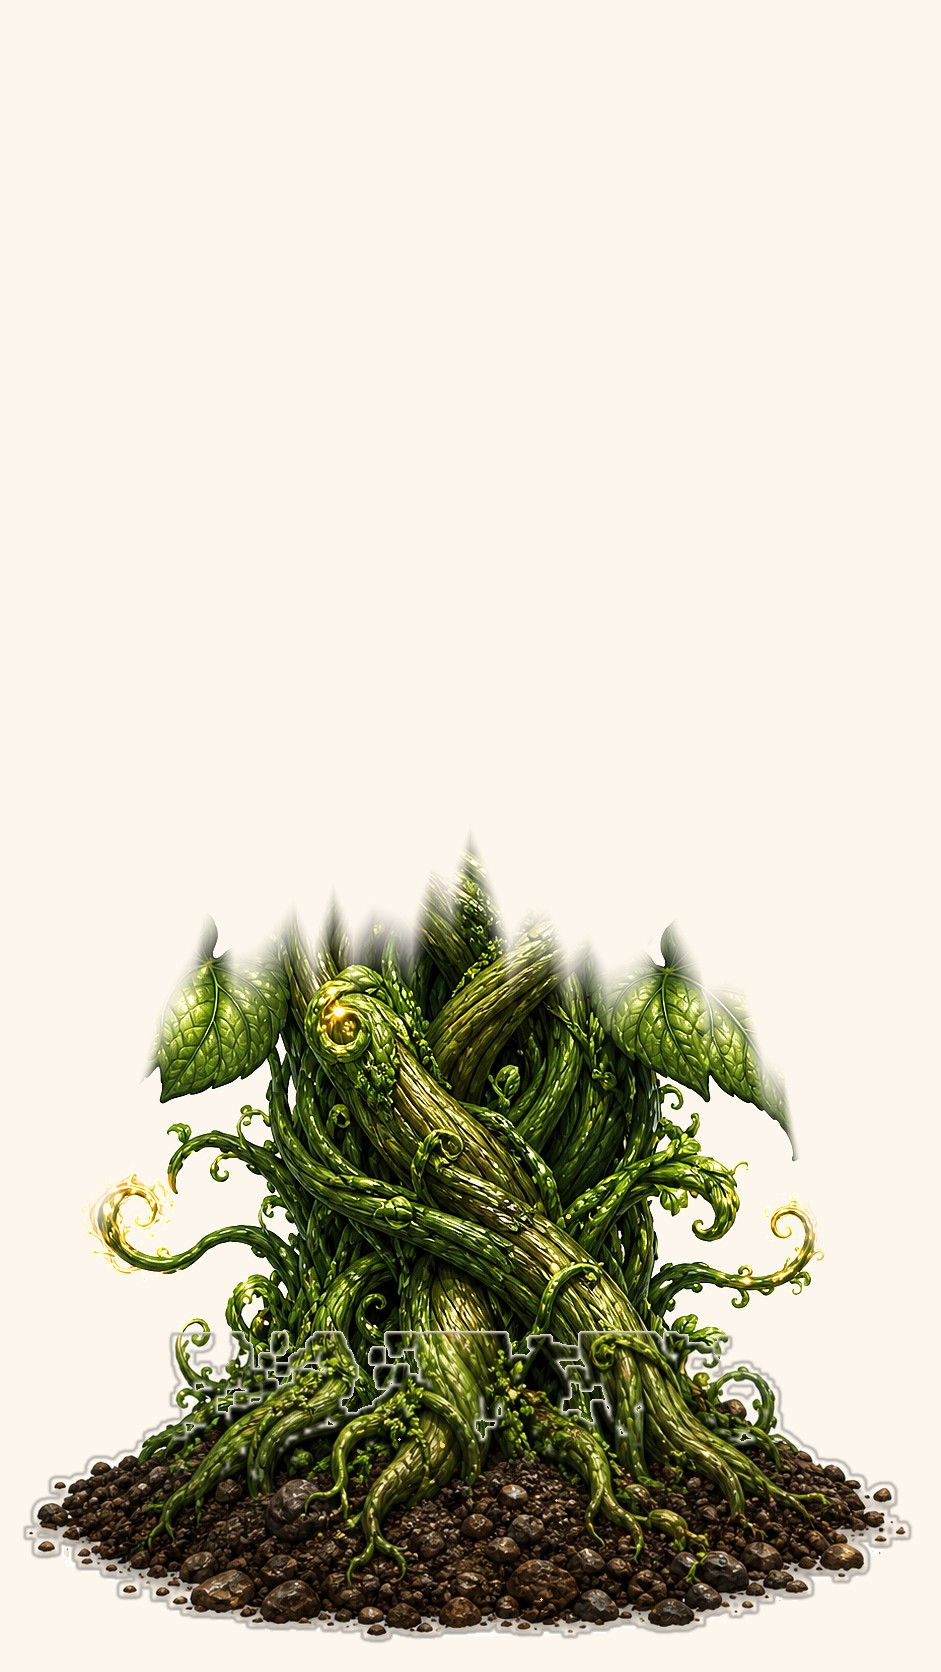
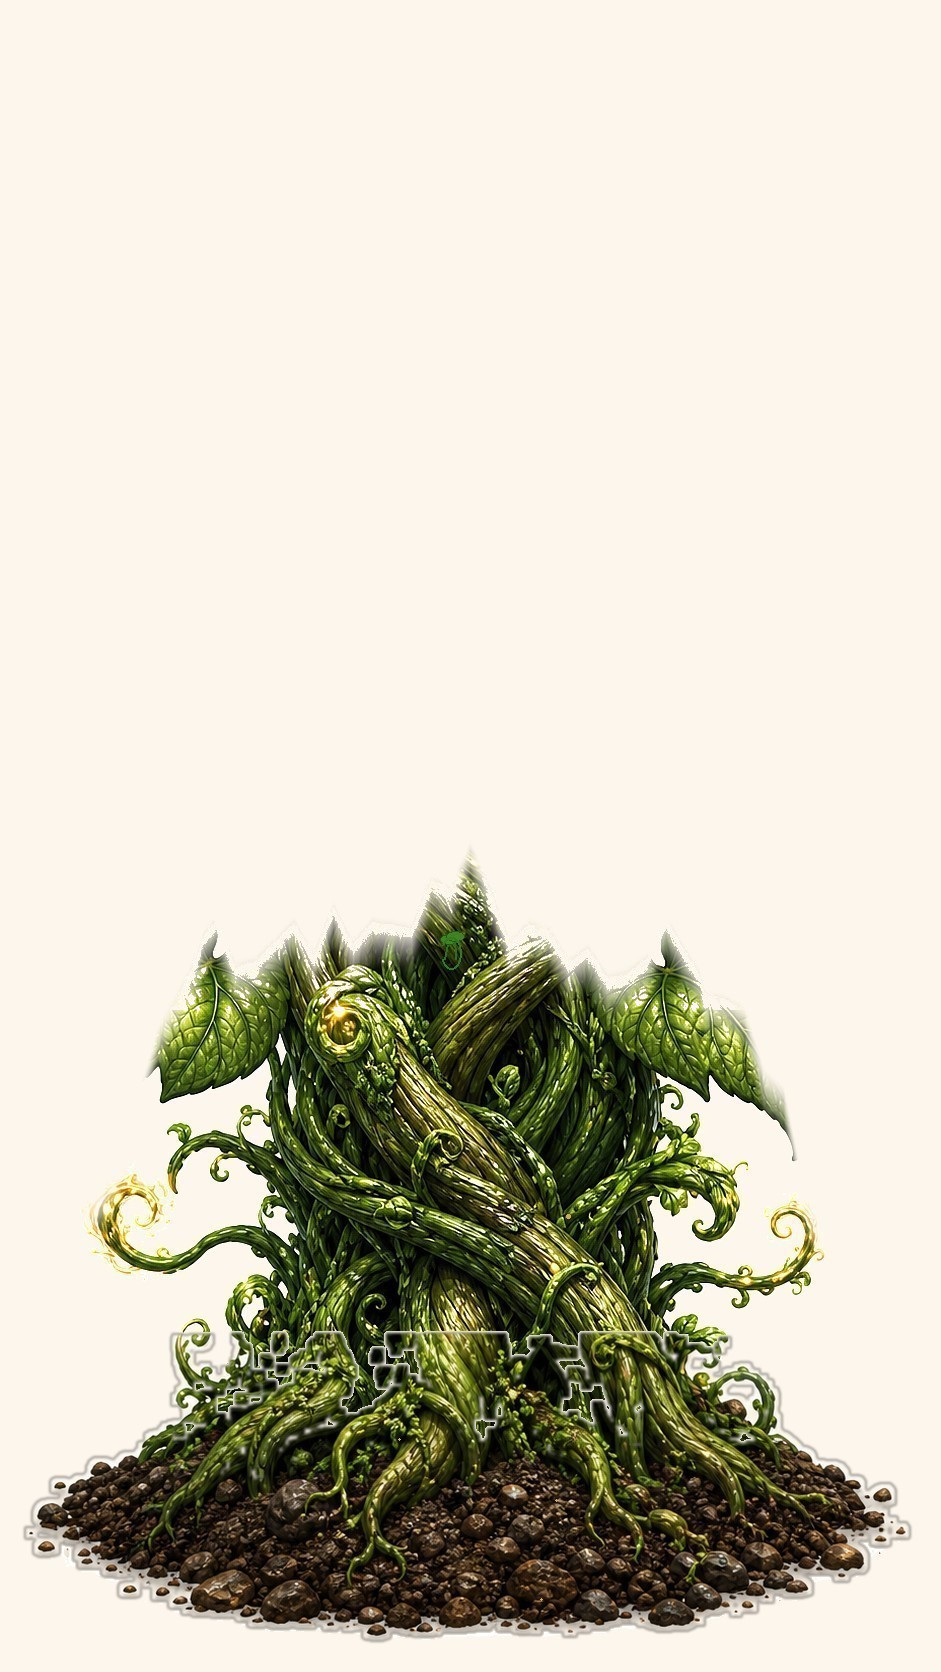
修复魔树树冠拖影并补充验收判据

diff --git a/scripts/validate_magic_tree_frames.py b/scripts/validate_magic_tree_frames.py
@@ -7,10 +7,12 @@ from collections import deque
 from pathlib import Path
 
 import numpy as np
-from PIL import Image, ImageStat
+from PIL import Image
 
 
 BG = np.array([253, 246, 236], dtype=np.float32)
+LUMA_WEIGHTS = np.array([0.2126, 0.7152, 0.0722], dtype=np.float32)
+BG_LUMA = float(np.dot(BG, LUMA_WEIGHTS))
 
 
 def load_frames(frame_dir: Path) -> list[Path]:
@@ -20,6 +22,10 @@ def load_frames(frame_dir: Path) -> list[Path]:
     if len(frames) != 28:
         raise SystemExit(f"需要 28 帧，当前 {len(frames)} 帧")
     return frames
+
+
+def luminance(arr: np.ndarray) -> np.ndarray:
+    return arr.astype(np.float32) @ LUMA_WEIGHTS
 
 
 def foreground_mask(arr: np.ndarray) -> np.ndarray:
@@ -76,7 +82,7 @@ def scaled_final_diff(
 
 
 def connected_component_diameters(mask: np.ndarray) -> list[float]:
-    # 粗略叶片代理：只统计中等面积绿色连通块，避免把主藤整根算进去。
+    # 粗略叶片代理：只统计较大的绿色连通块，避免把藤须碎片算进去。
     h, w = mask.shape
     seen = np.zeros_like(mask, dtype=bool)
     diameters: list[float] = []
@@ -107,6 +113,21 @@ def connected_component_diameters(mask: np.ndarray) -> list[float]:
     return diameters
 
 
+def crown_smear_ratio(arr: np.ndarray, plant_top: float) -> float:
+    h = arr.shape[0]
+    top = min(h - 1, max(0, int(round(plant_top * h))))
+    bottom = min(h, top + 120)
+    if bottom <= top:
+        return 0.0
+    band = arr[top:bottom]
+    content = foreground_mask(band)
+    if not np.any(content):
+        return 0.0
+    bg_distance = np.abs(band.astype(np.float32) - BG).sum(axis=2)
+    bright_content = content & (luminance(band) >= BG_LUMA - 90) & (bg_distance <= 95)
+    return float(np.count_nonzero(bright_content) / np.count_nonzero(content))
+
+
 def main() -> None:
     parser = argparse.ArgumentParser()
     parser.add_argument("frame_dir", type=Path)
@@ -116,6 +137,8 @@ def main() -> None:
     parser.add_argument("--min-scaled-final-diff", type=float, default=15.0)
     parser.add_argument("--max-width-height-growth-ratio", type=float, default=0.5)
     parser.add_argument("--max-leaf-diameter-drift", type=float, default=0.2)
+    parser.add_argument("--max-crown-smear-ratio", type=float, default=0.03)
+    parser.add_argument("--max-brightness-over-bg", type=float, default=10.0)
     args = parser.parse_args()
 
     paths = load_frames(args.frame_dir)
@@ -135,6 +158,7 @@ def main() -> None:
     leaf_medians: list[float | None] = []
     leaf_counts: list[int] = []
     bg_means: list[list[float]] = []
+    brightness_over_bg: list[float] = []
 
     for arr in arrays:
         fg = foreground_mask(arr)
@@ -166,6 +190,12 @@ def main() -> None:
             axis=0,
         )
         bg_means.append([round(float(v), 2) for v in bg_sample.mean(axis=0)])
+        brightness_over_bg.append(float(np.max(luminance(arr)) - BG_LUMA))
+
+    crown_smears = [
+        crown_smear_ratio(arr, plant_top)
+        for arr, plant_top in zip(arrays, plant_tops, strict=True)
+    ]
 
     top_regressions = [
         i + 1
@@ -209,7 +239,11 @@ def main() -> None:
         "soil_bottom_stable": soil_bottom_drift <= args.max_soil_drift,
         "plant_top_monotonic": not top_regressions,
         "background_stable": max(bg_range) <= 2.0,
-        "format_and_size": len(sizes) == 1 and sizes[0] == (941, 1672) and paths[0].suffix.lower() == ".jpg",
+        "crown_smear": max(crown_smears) <= args.max_crown_smear_ratio,
+        "brightness_not_over_bg": max(brightness_over_bg) <= args.max_brightness_over_bg,
+        "format_and_size": len(sizes) == 1
+        and sizes[0] == (941, 1672)
+        and paths[0].suffix.lower() == ".jpg",
     }
 
     result = {
@@ -235,6 +269,10 @@ def main() -> None:
         "soil_bottom_max": round(max(soil_bottoms), 4),
         "soil_bottom_drift": round(soil_bottom_drift, 4),
         "background_mean_range": [round(float(v), 3) for v in bg_range],
+        "crown_smear_ratio_max": round(max(crown_smears), 4),
+        "crown_smear_ratio_values": [round(v, 4) for v in crown_smears],
+        "brightness_over_bg_max": round(max(brightness_over_bg), 3),
+        "brightness_over_bg_values": [round(v, 3) for v in brightness_over_bg],
         "checks": pass_checks,
         "pass": all(pass_checks.values()),
     }

diff --git a/picture/魔树动画素材/素材说明.md b/picture/魔树动画素材/素材说明.md
@@ -1,6 +1,6 @@
 # 魔树动画素材说明
 
-本目录是魔树生长动画的高清固定土堆显现版 JPEG q90 素材，用于替换上一批低清连贯帧、28 次独立生成的 PNG、会产生横向切口的土树分层版本，以及只有等比缩放的 zoom 版本。
+本目录是魔树生长动画的高清固定土堆显现版 JPEG q90 素材，用于替换低清连贯帧、逐帧独立 PNG、土树分层横切版、整体 zoom 版，以及树冠带浅色拖影的版本。
 
 ## 文件
 
@@ -15,21 +15,35 @@
 
 - 单帧尺寸：941x1672
 - 格式：JPEG q90
-- 总体积：约 14.1MB
+- 总体积：约 14.0MB
 - 背景：接近 `#FDF6EC`
 - 命名：`magic_tree_f01.jpg` 到 `magic_tree_f28.jpg`
 
 ## 本版修正
 
-上一批高清 PNG 是逐帧独立生成，单帧更清晰，但不是同一株植物连续生长，导致换株、土堆漂移、背景漂移和体积过大。上一版高清单锚点素材把土堆和植株拆成两层，分层边界造成明显横向切口；整体单层版又变成了明显 zoom。本版使用用户认可的高清终帧作为唯一锚点，固定土堆，只让原尺寸植株通过柔和不规则生长边界向上显现，并统一输出为 JPEG q90：
+本版使用用户认可的高清终帧作为唯一锚点，固定土堆，只让原尺寸植株通过柔和不规则生长边界向上显现，并清理树冠浅色拖影：
 
-- 废弃 50MB PNG 独立帧
 - 保留同一株魔树的视觉身份
 - 土堆宽度和底边固定
 - 植株保持原尺寸，不做整体 zoom
 - 生长方向以向上显现为主，横向展开受限
-- 不再使用切片平铺、镜像、拉伸树干等路线
-- 统一生成预览图、GIF 和验收报告，`pass: false` 时脚本直接失败
+- 清除树冠接近背景色的浅色残影
+- 限制全图亮度，不出现比背景更亮的光晕
+- 不再使用切片平铺、镜像、纵向拉伸树干等路线
+- `validation_report.json` 为 `pass: true` 时才交付
+
+## 当前验收
+
+当前 `validation_report.json` 为 `pass: true`。关键数据：
+
+- 相邻帧平均差最大：4.649
+- 末帧缩放比对最低：54.579
+- 宽高增长比：0.199
+- 叶片直径漂移：6.3%
+- 土堆宽度漂移：0
+- 土堆底边漂移：0
+- 树冠拖影率最大：2.93%
+- 最亮像素亮度超背景：8.234
 
 ## 接入建议
 
@@ -41,6 +55,4 @@
 
 ## 注意
 
-这版优先解决“高清质感、同株视觉身份、无拼接、无横向切口、不是 zoom、土堆固定”。`validation_report.json` 当前为 `pass: true`。
-
-如果之后继续追求更真实的“新叶逐片长出、藤条逐步变粗”，必须使用“一张大图画完全部帧再拆”或“img2img 链式低重绘”方式生成，不能再逐帧独立生成。
+这版优先解决“高清质感、同株视觉身份、无拼接、无横向切口、不是 zoom、土堆固定、树冠无拖影”。如果之后继续追求更真实的“新叶逐片长出、藤条逐步变粗”，必须使用“一张大图画完全部帧再拆”或“img2img 链式低重绘”方式生成，不能再逐帧独立生成。

diff --git a/docs/CODE_MAP.md b/docs/CODE_MAP.md
@@ -1,7 +1,7 @@
 # 代码地图（CODE MAP）
 
 > ⚠ 本文件由 `scripts/update_code_map.sh` 自动生成，请勿手工编辑。
-> 生成时间：2026-07-30 15:31:33　对应提交：415c604 之后的工作区状态
+> 生成时间：2026-07-30 15:59:56　对应提交：dfa1a44 之后的工作区状态
 
 ## 一、索引状态
 
@@ -13,20 +13,20 @@ Project: C:\Users\yunhao.zhou1\Desktop\Easy Create
 
 Index Statistics:
   Files:     110
-  Nodes:     4,132
-  Edges:     19,256
-  DB Size:   21.07 MB
+  Nodes:     4,136
+  Edges:     19,268
+  DB Size:   21.08 MB
   Backend:   node:sqlite - built-in (full WAL)
   Journal:   wal
 
 Nodes by Kind:
   method          1,567
-  function        1,393
+  function        1,395
   class           467
   import          349
   constant        210
   file            102
-  variable        27
+  variable        29
   type_alias      12
   enum_member     2
   namespace       2
@@ -198,7 +198,7 @@ Project Structure (110 files):
 |   |-- e2e_probe.dart (dart, 12 symbols)
 |   |-- serve_web.dart (dart, 4 symbols)
 |   |-- square_standins.py (python, 11 symbols)
-|   `-- validate_magic_tree_frames.py (python, 18 symbols)
+|   `-- validate_magic_tree_frames.py (python, 22 symbols)
 |-- test
 |   |-- core
 |   |   |-- chinese_numbers_test.dart (dart, 4 symbols)
